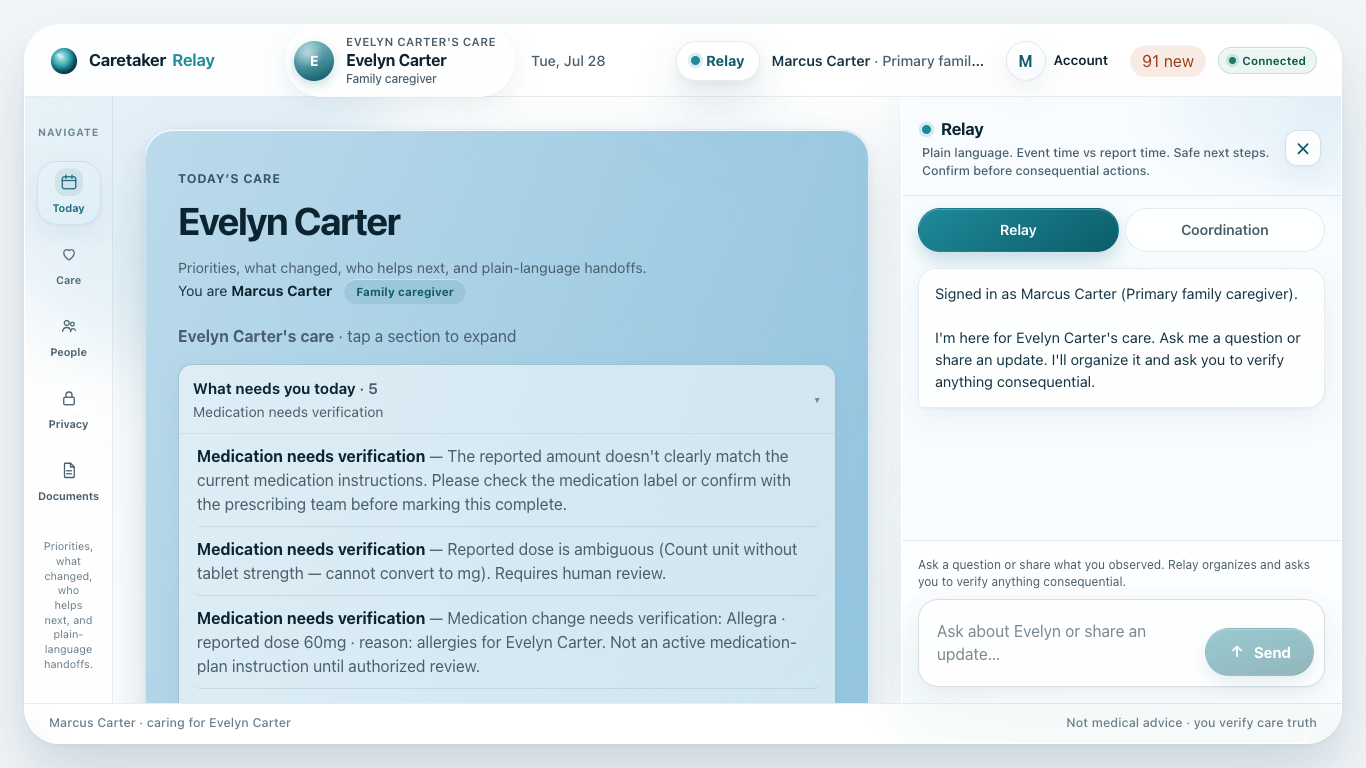
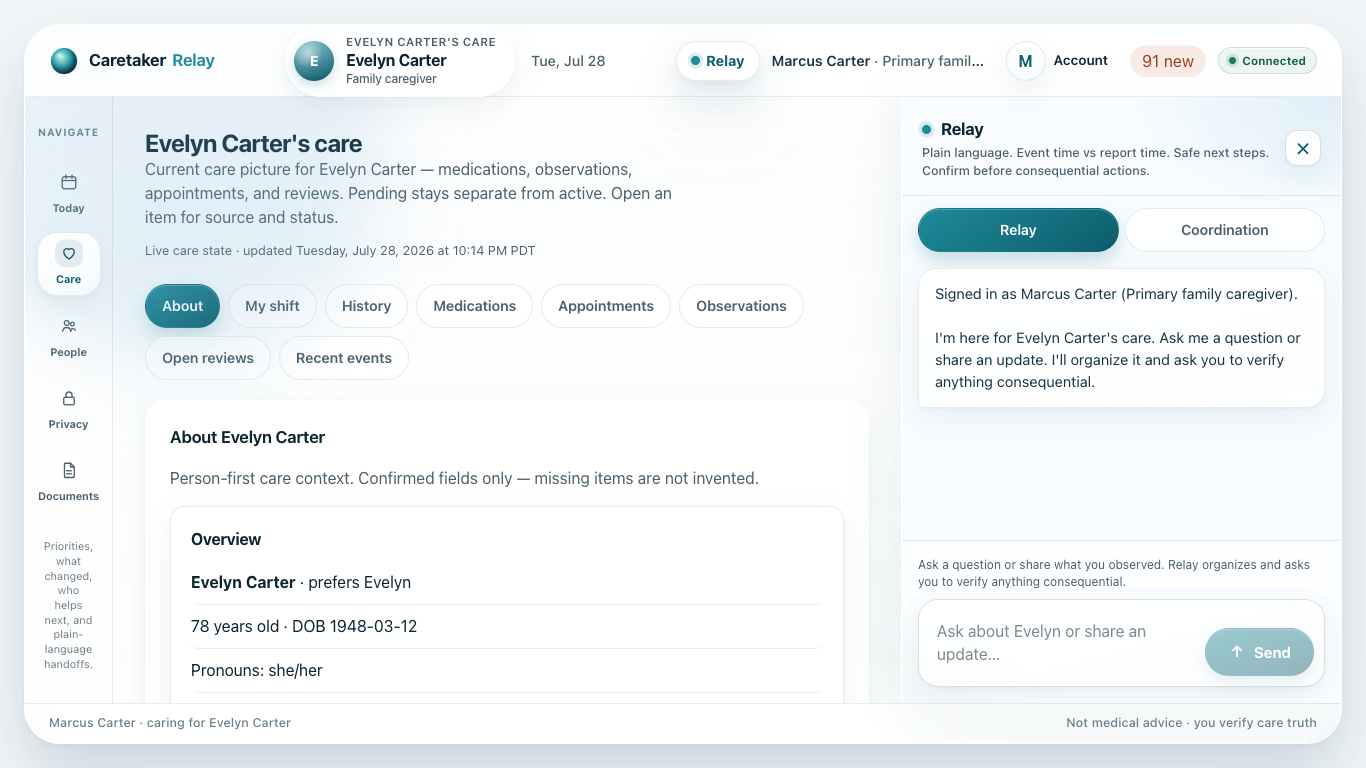
docs(app): final temporal shift signal after-proof and census refresh
Record live answers, desktop/mobile/tablet screenshots, and freeze hold
pending founder recheck.

diff --git a/docs/incidents/FINAL_TEMPORAL_SHIFT_SIGNAL_AFTER.md b/docs/incidents/FINAL_TEMPORAL_SHIFT_SIGNAL_AFTER.md
@@ -1,0 +1,35 @@
+# Final temporal / shift / signal — after proof
+
+**Date:** 2026-07-29  
+**API SOURCE/DEPLOY:** `020293387f0c5655770a55d23d3e658988e301a5`  
+**APP SOURCE/DEPLOY:** `fc9c19635c43f93cb0f3599859387c534cab3232`  
+**Evidence:** `docs/incidents/evidence/final-temporal-shift-after/`
+
+## Plan split
+
+| Prompt | Intent | Composition |
+|--------|--------|-------------|
+| How did Evelyn feel yesterday? | `YESTERDAY_WELLBEING` | Fever-first wellbeing; Tylenol secondary |
+| What changed today? | `CHANGES_TODAY` | Human category facts; no raw domain labels |
+| What changed since yesterday? | `CHANGES_SINCE_YESTERDAY` | Comparison wording (corrected / remains / pending) |
+| How was the previous shift? | `PREVIOUS_SHIFT` | Natural narrative; one correction sentence |
+| What needs review? | `TASKS_REMAINING` | 3 open lines (Allegra, Metformin, one dose_unit) |
+
+## Today attention
+
+Public Today “What needs you today” reduced from 5 raw med-verification cards to **3** canonical cards:
+
+1. Dose unit needs review (collapsed family)  
+2. Allegra pending verification  
+3. Tylenol medication change (from handoff still-needs)
+
+Raw `open_safety_reviews` still has multiple historical rows (not deleted). Presentation is semantic-reconciled only.
+
+## Census
+
+Desktop 1366, mobile 390, tablet 768: Today + Care + Relay screenshots under `final-temporal-shift-after/`.  
+Relay already-open detection avoids double-toggle on compact layouts.
+
+## Freeze
+
+Founder desktop + physical-phone recheck **PENDING** → product freeze **NOT RESTORED**.
